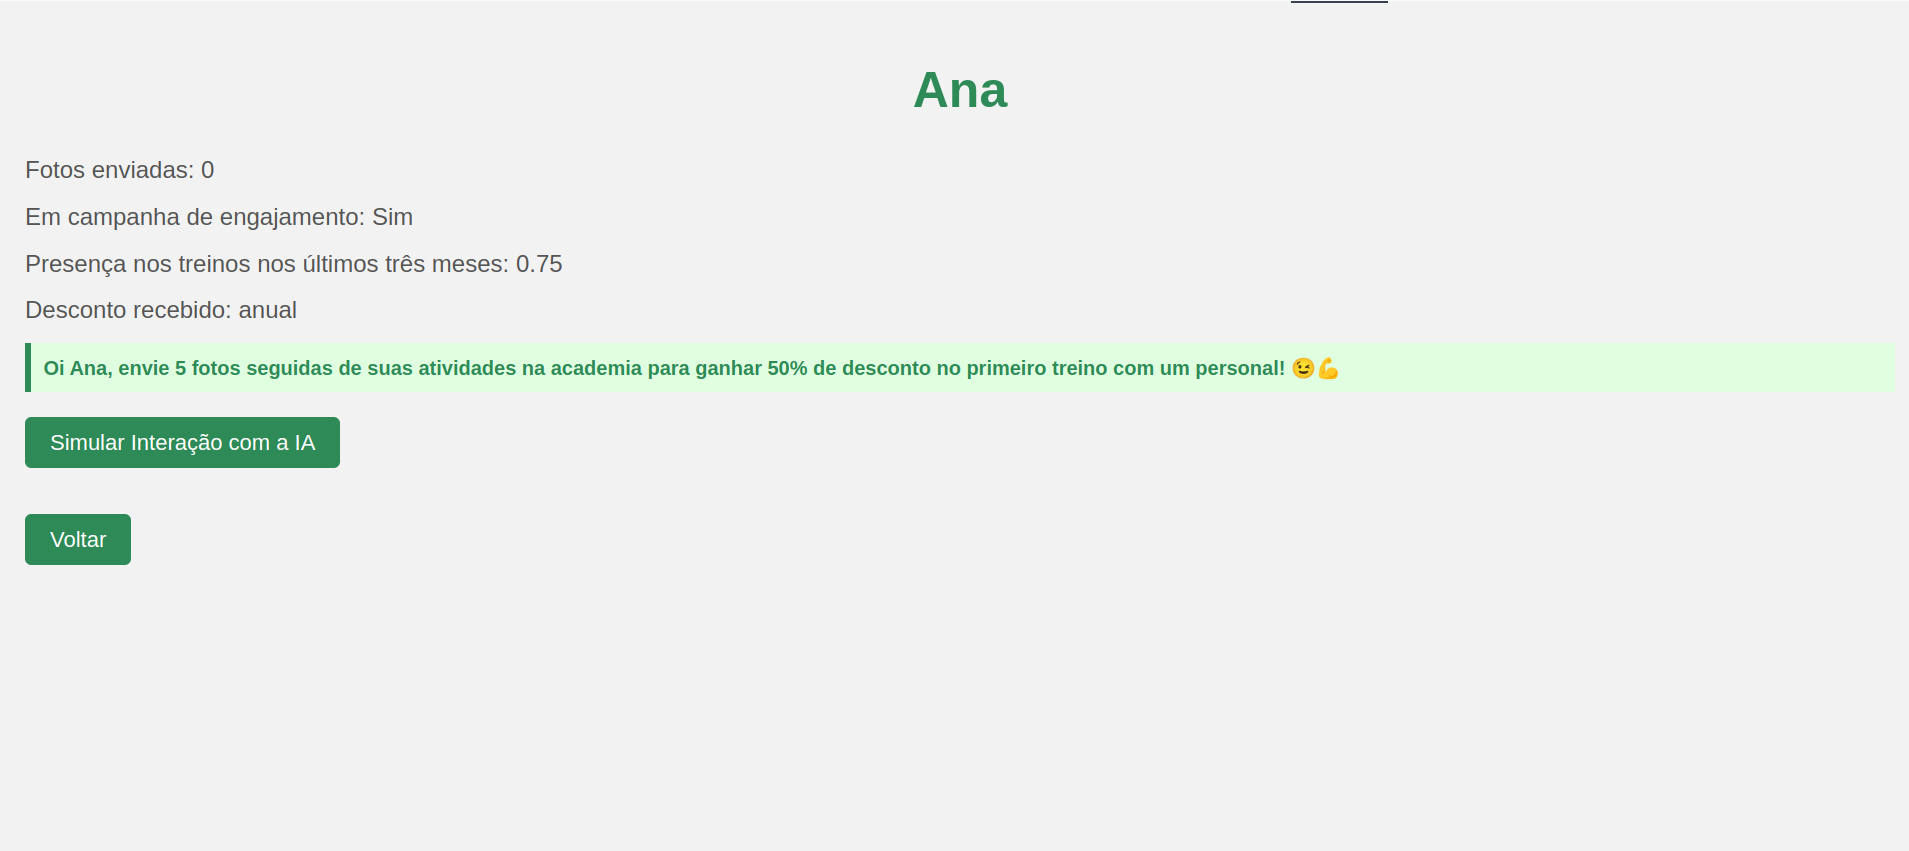
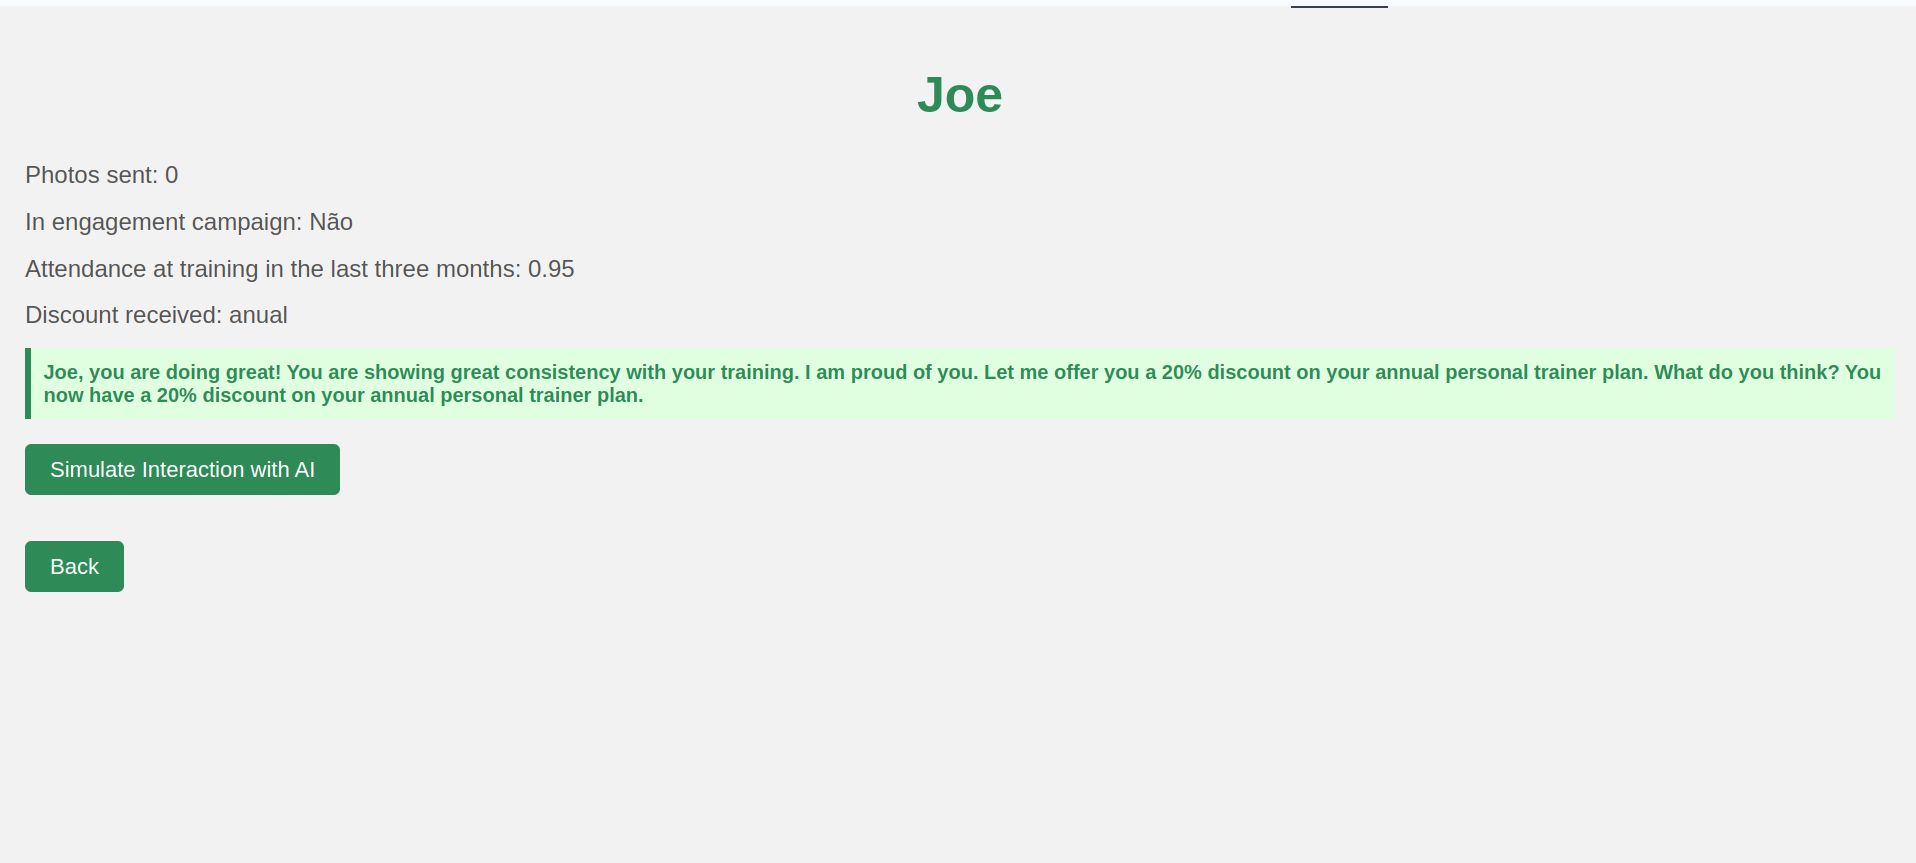
updates

diff --git a/database.py b/database.py
@@ -3,41 +3,41 @@ from typing import Any, Dict, Optional
 # Banco de dados simulado
 user_database: Dict[str, Dict[str, Any]] = {
     "user_1": {"id": "user_1",
-               "nome": "João",
+               "nome": "John",
                "fotos_enviadas_para_campanha_de_engajamento": 0,
                "em_campanha_engajamento": False,
                "presenca_nos_treinos_tres_meses": 0.85,
-               "desconto_recebido": "primeira aula"},
+               "desconto_recebido": "first class"},
     "user_2": {"id": "user_2",
                "nome": "Maria",
                "fotos_enviadas_para_campanha_de_engajamento": 4,
                "em_campanha_engajamento": True,
                "presenca_nos_treinos_tres_meses": 0.55,
-               "desconto_recebido": "nenhum" },
+               "desconto_recebido": "none" },
     "user_3": {"id": "user_3",
                "nome": "José",
                "fotos_enviadas_para_campanha_de_engajamento": 0,
                "em_campanha_engajamento": False,
                "presenca_nos_treinos_tres_meses": 0.95,
-               "desconto_recebido": "primeira aula" },
+               "desconto_recebido": "first class" },
     "user_4": {"id": "user_4",
                "nome": "Ana",
                "fotos_enviadas_para_campanha_de_engajamento": 0,
                "em_campanha_engajamento": False,
                "presenca_nos_treinos_tres_meses": 0.75,
-               "desconto_recebido": "anual" },
+               "desconto_recebido": "annual" },
     "user_5": {"id": "user_5",
                "nome": "Carlos",
                "fotos_enviadas_para_campanha_de_engajamento": 3,
                "em_campanha_engajamento": True,
                "presenca_nos_treinos_tres_meses": 0.65,
-               "desconto_recebido": "nenhum" },
+               "desconto_recebido": "none" },
     "user_6": {"id": "user_6",
                "nome": "Mariana",
                "fotos_enviadas_para_campanha_de_engajamento": 0,
                "em_campanha_engajamento": False,
                "presenca_nos_treinos_tres_meses": 0.40,
-               "desconto_recebido": "nenhum" },
+               "desconto_recebido": "none" },
 }
 
 def get_user(user_id: str) -> Optional[Dict[str, Any]]:

diff --git a/genai.py b/genai.py
@@ -42,6 +42,7 @@ def ia_decision(user):
       6. Se uma pessoa recebeu o desconto de primeira_aula ela pode receber o desconto anual.
       Lembre-se: manifeste apoio para pessoas com menos frequência, parabenize muita frequência e
         escolha de forma estratégica quem receberá cada desconto.
+      7. Responda sempre em inglês. Nunca use outro idioma.
       """
     user_decision = magical_if.start_chat(enable_automatic_function_calling=True)
     response = user_decision.send_message(f"Dados do usuário: {user}; Regras de negócio: {business_rules}")
